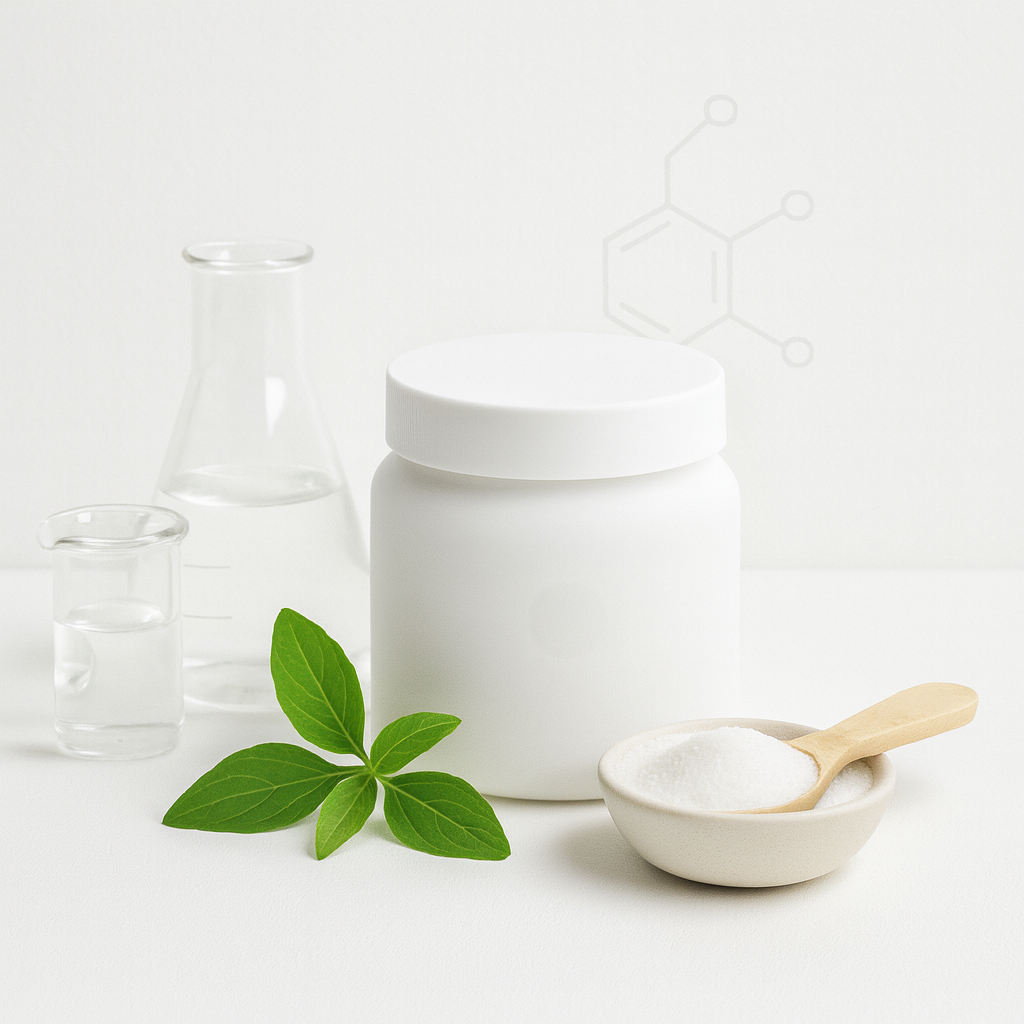
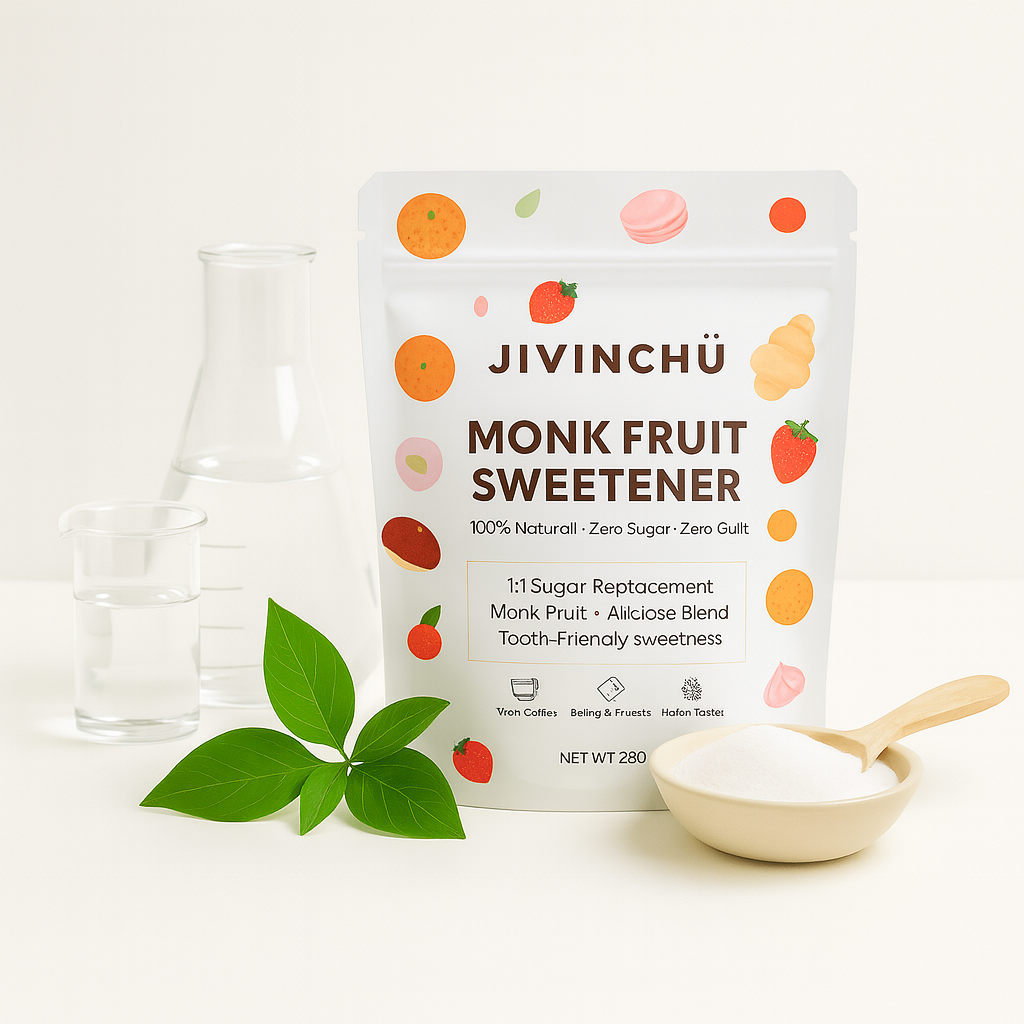
feat(UI: Storefront): Final UI for Storefront

diff --git a/web/components/Storefront.tsx b/web/components/Storefront.tsx
@@ -8,11 +8,15 @@ import { useRouter } from "next/navigation";
 import { motion, useReducedMotion } from "framer-motion";
 import type { StoreProduct } from "@/types/product";
 import styles from "./Storefront.module.css";
+//import SignOutButton from "@/components/SignOutButton";
 
-/** Local images for the alternating media section */
-import trustedImg from "@/app/assets/images/trusted.png";
+/** Local images (updated to use JIVINCHU product image) */
+
+import patternImg from "@/app/assets/images/monk_pattern.png";
+import productImg from "@/app/assets/images/monk_sweetener.jpeg";
 import scienceImg from "@/app/assets/images/scientifically_proven.png";
 import deliveryImg from "@/app/assets/images/easy_delivery.png";
+import trustImg from "@/app/assets/images/trusted.png";
 
 type SizeRow = StoreProduct["product_sizes"][number];
 
@@ -132,10 +136,10 @@ const noList: Array<{ t: string; d: string }> = [
 ];
 
 const testimonials = [
-  { quote: "SugarPro changed my coffee routine forever!", name: "Anna S.", role: "Coffee Enthusiast" },
+  { quote: "This is my new favorite monk fruit blend!", name: "Anna S.", role: "Coffee Enthusiast" },
   { quote: "No aftertaste—finally a sweetener I trust.", name: "Brian L.", role: "Dietitian" },
   { quote: "So easy to order and it arrived fast.", name: "Jillian C.", role: "Home Baker" },
-  { quote: "My new go-to for every recipe.", name: "David M.", role: "Fitness Coach" },
+  { quote: "Perfect 1:1 sugar replacement.", name: "David M.", role: "Fitness Coach" },
 ];
 
 export default function Storefront({ product }: { product: StoreProduct | null }) {
@@ -192,6 +196,7 @@ export default function Storefront({ product }: { product: StoreProduct | null }
 
   return (
     <div className={`${styles.page} ${styles.theme}`}>
+      <div aria-hidden style={{ position: 'absolute', inset: 0, backgroundImage: `url(${patternImg.src})`, backgroundRepeat: 'repeat', backgroundSize: '220px', opacity: '0.3', pointerEvents: 'none' }} />
       {/* Background blobs */}
       <div aria-hidden className={styles.bgWrap}>
         <div className={styles.blobOne} />
@@ -199,17 +204,19 @@ export default function Storefront({ product }: { product: StoreProduct | null }
       </div>
 
       {/* Header */}
-      <header className={styles.navbar}>
+      <header className={styles.navbar}  style={{background: 'linear-gradient(80deg, #FFFAFA 30%, #FFF3DD 40%, #FFE7C8 100%)'}}>
+      
         <nav className={`${styles.navbarInner} ${styles.container}`}>
-          <Link href="/" aria-label="SugarPro Home" className={styles.brand}>
-            SugarPro
+          <Link href="/" aria-label="JIVINCHU Home" className={styles.brand} style={{color:"#c89f16", fontSize:"22px"}}>
+            JIVINCHU
           </Link>
 
           <div className={styles.navLinks} aria-label="Primary">
             <button onClick={() => scrollTo("benefits")}>Benefits</button>
-            <button onClick={() => scrollTo("science")}>Science</button>
+            {/* <button onClick={() => scrollTo("science")}>Science</button> */}
             <button onClick={() => scrollTo("buy")}>Buy</button>
             <Link href="/account">Account</Link>
+            {/* <SignOutButton className={styles.linkLikeButton} /> */}
           </div>
 
           <button
@@ -236,12 +243,13 @@ export default function Storefront({ product }: { product: StoreProduct | null }
       </header>
 
       {/* HERO */}
-      <section className={`${styles.section} ${styles.container} ${styles.hero}`}>
-        <motion.div
+      <section className={`${styles.section} ${styles.container} ${styles.hero}`} style={{ position: "relative" }}>
+
+          <motion.div
           initial={prefersReduced ? undefined : { opacity: 0, y: 18, filter: "blur(6px)" }}
           animate={prefersReduced ? undefined : { opacity: 1, y: 0, filter: "blur(0px)" }}
           transition={{ duration: 0.7, ease: "easeOut" }}
-          className={styles.heroContent}
+          className={styles.heroContent} style={{ position: 'relative', zIndex: 1 }}
         >
           <motion.h1
             initial={prefersReduced ? undefined : { opacity: 0, y: 14 }}
@@ -250,7 +258,7 @@ export default function Storefront({ product }: { product: StoreProduct | null }
             className={styles.heroTitle}
             whileHover={prefersReduced ? undefined : { scale: 1.01 }}
           >
-            SugarPro<span className={styles.dot}>.</span>
+            JIVINCHU<span className={styles.dot}>.</span>
           </motion.h1>
 
           <motion.h2
@@ -259,7 +267,7 @@ export default function Storefront({ product }: { product: StoreProduct | null }
             transition={{ delay: 0.12, duration: 0.45 }}
             className={styles.heroKicker}
           >
-            Total solution for sweetness.
+            Monk Fruit Sweetener - total solution for sweetness.
           </motion.h2>
 
           <motion.p
@@ -268,7 +276,7 @@ export default function Storefront({ product }: { product: StoreProduct | null }
             transition={{ delay: 0.2, duration: 0.45 }}
             className={styles.heroLead}
           >
-            A modern way to enjoy sweet flavor—without compromising how you feel.
+            A modern way to enjoy sweet flavor - Monk Fruit + Allulose blend for sugar-like taste without the guilt.
           </motion.p>
 
           <motion.div
@@ -300,24 +308,25 @@ export default function Storefront({ product }: { product: StoreProduct | null }
               {hasVariedPrices ? <>From {formatPaise(minPricePaise)}</> : <>{formatPaise(minPricePaise)}</>}
             </div>
           </motion.div>
+
         </motion.div>
       </section>
 
       {/* ALTERNATING MEDIA SECTION (3 rows) */}
       <section className={`${styles.section} ${styles.mediaSection}`}>
         <div className={styles.container}>
-          {/* Row 1: text left, image right */}
+          {/* Row 1: text left, product image right (updated) */}
           <div className={styles.mediaRow}>
             <div className={styles.mediaText}>
               <h3 className={styles.mediaTitle}>Trusted by thousands.</h3>
               <p className={styles.mediaDesc}>
-                SugarPro offers a new way to enjoy sweet flavors without compromising health or taste.
+                JIVINCHU Monk Fruit Sweetener offers a new way to enjoy sweet flavors without compromising health or taste.
               </p>
             </div>
             <div className={styles.mediaImage}>
               <Image
-                src={trustedImg}
-                alt="Customers trust SugarPro"
+                src={trustImg}
+                alt="JIVINCHU Monk Fruit Sweetener packaging"
                 width={1200}
                 height={900}
                 className={styles.mediaImgEl}
@@ -369,7 +378,7 @@ export default function Storefront({ product }: { product: StoreProduct | null }
       {/* Benefits */}
       <section id="benefits" className={styles.section}>
         <div className={styles.container}>
-          <h2 className={styles.sectionTitle}>Sweet. Smart. SugarPro.</h2>
+          <h2 className={styles.sectionTitle}>Sweet. Smart. JIVINCHU.</h2>
           <p className={styles.sectionLead}>
             Enjoy the sugar-like taste with zero guilt and a feel-good routine.
           </p>
@@ -428,13 +437,25 @@ export default function Storefront({ product }: { product: StoreProduct | null }
           </div>
         </div>
       </section>
-
+      
       {/* BUY */}
       <section id="buy" className={styles.section}>
         <div className={styles.container}>
+          
           <div className={styles.buyGrid}>
+            {/* Product hero image */}
+  <div className={styles.mediaImage}>
+            <Image
+              src={productImg}
+              alt="JIVINCHU Monk Fruit Sweetener retail pouch"
+              width={1200}
+              height={1200}
+              className={styles.mediaImgEl}
+              priority
+            />
+          </div>
             <div>
-              <h2 className={styles.sectionTitle}>Buy SugarPro</h2>
+              <h2 className={styles.sectionTitle}>Buy JIVINCHU Monk Fruit Sweetener</h2>
               <ul className={styles.buyBullets}>
                 <li>• Zero Calories, Zero Sugar Spike</li>
                 <li>• Tastes Like Sugar — No Aftertaste</li>
@@ -444,17 +465,14 @@ export default function Storefront({ product }: { product: StoreProduct | null }
               {product?.description ? (
                 <p className={styles.buyDesc}>{product.description}</p>
               ) : (
-                <p className={styles.buyDesc}>Add a short product description here.</p>
+                <p className={styles.buyDesc}>Monk Fruit + Allulose blend. 1:1 sugar replacement for tea, coffee, baking & Indian sweets.</p>
               )}
-            </div>
-
-            {/* Purchase card */}
-            <div className={styles.buyCard}>
+              <div className={styles.buyCard}>
               <div className={styles.buyHeader}>
-                <div className={styles.buyTitle}>{product?.name ?? "Your Product"}</div>
+                <div className={styles.buyTitle}>{product?.name ?? "JIVINCHU's Monk Fruit Sweetener"}</div>
                 <div className={styles.buyPrice}>{formatPaise(unitPaise)}</div>
               </div>
-
+              
               {/* Sizes */}
               <div className={styles.formField}>
                 <label>Choose size</label>
@@ -521,10 +539,16 @@ export default function Storefront({ product }: { product: StoreProduct | null }
             </div>
           </div>
         </div>
+            </div>
+
+
+            {/* Purchase card */}
+            
       </section>
 
       {/* FOOTER — redesigned */}
-      <footer className={styles.siteFooter}>
+      <footer className={styles.siteFooter} style={{background: 'linear-gradient(40deg, #FFFAFA 0%, #FFF3DD 40%, #FFE7C8 100%)'}}>
+        
         <div className={`${styles.container} ${styles.footerWrap}`}>
           <div className={styles.footerTop}>
             <div className={styles.brandCell}>
@@ -536,7 +560,7 @@ export default function Storefront({ product }: { product: StoreProduct | null }
                   <polygon points="40,22 48,8 56,22" fill="#d4d4d8" />
                 </svg>
               </div>
-              <div className={styles.tagline}>Sweet. Smart. SugarPro.</div>
+              <div className={styles.tagline}>Sweet. Smart. JIVINCHU.</div>
             </div>
 
             <div className={styles.footerCols}>
@@ -562,7 +586,7 @@ export default function Storefront({ product }: { product: StoreProduct | null }
           <div className={styles.footerDivider} />
 
           <div className={styles.footerBottom}>
-            <div className={styles.copy}>© {new Date().getFullYear()} SugarPro</div>
+            <div className={styles.copy}>© {new Date().getFullYear()} JIVINCHU</div>
             <nav className={styles.legalNav}>
               <Link className={styles.footerLink} href="/privacy">Privacy</Link>
               <Link className={styles.footerLink} href="/returns">Returns</Link>

diff --git a/web/components/Storefront.module.css b/web/components/Storefront.module.css
@@ -8,9 +8,9 @@
   --ink-2: #334155;
   --ink-3: #64748b;
   --line: rgba(15, 23, 42, 0.12);
-  --brand-1: #7c3aed;   /* violet */
-  --brand-2: #06b6d4;   /* cyan  */
-  --brand-3: #22c55e;   /* green */
+  --brand-1: #ffb22473;   
+  --brand-2: #d4a606;   
+  --brand-3: #c89f16;   
   --radius: 16px;
   --radius-lg: 20px;
   --shadow-sm: 0 1px 2px rgba(0,0,0,0.05);
@@ -38,7 +38,7 @@
   position: sticky; top: 0;
   background: rgba(255,255,255,0.7);
   backdrop-filter: saturate(140%) blur(10px);
-  border-bottom: 1px solid var(--line);
+  border-bottom: 1.5px solid var(--line);
   z-index: 20;
 }
 .navbarInner { height: 64px; display: flex; align-items: center; justify-content: space-between; gap: 16px; }
@@ -58,7 +58,11 @@
 .hero { padding-top: 88px; padding-bottom: 40px; text-align: center; }
 .heroContent { display: grid; gap: 16px; justify-items: center; }
 
-.heroTitle { font-size: clamp(48px, 8vw, 88px); font-weight: 800; letter-spacing: -0.04em; line-height: 0.95; }
+.heroTitle { font-size: clamp(48px, 8vw, 88px); font-weight: 800; letter-spacing: -0.04em; line-height: 0.95; color: transparent;
+  background: linear-gradient(90deg, var(--brand-3)0%, var(--brand-2) 50%, var(--brand-1)100%);
+  background-size: 200% 100%;
+  -webkit-background-clip: text; background-clip: text;
+  animation: dot-pan 10s linear infinite;}
 .dot {
   color: transparent;
   background: linear-gradient(90deg, var(--brand-1), var(--brand-2) 50%, var(--brand-3));
@@ -68,7 +72,7 @@
 }
 @keyframes dot-pan { 0% { background-position: 0% 50%; } 100% { background-position: 200% 50%; } }
 
-.heroKicker { font-size: clamp(18px, 2.4vw, 28px); font-weight: 600; opacity: 0.9; }
+.heroKicker { font-size: clamp(18px, 2.4vw, 28px); font-weight: 600; opacity: 1; padding: 12px; background: linear-gradient(40deg, var(--brand-1) 30%, #FFE7C8 60%, #FFF3DD);}
 .heroLead { color: var(--ink-2); max-width: 760px; }
 .heroBadges { display: flex; gap: 8px; justify-content: center; }
 .badge { font-size: 13px; padding: 6px 10px; background: rgba(6,182,212,0.08); border: 1px solid rgba(6,182,212,0.2); border-radius: 999px; }
@@ -76,10 +80,10 @@
 .heroCtaRow { display: flex; gap: 12px; justify-content: center; align-items: center; margin-top: 8px; }
 .primaryBtn {
   border: 0; border-radius: 999px; padding: 12px 18px; font-weight: 600; cursor: pointer;
-  background: linear-gradient(90deg, var(--brand-1), var(--brand-2));
-  color: white; box-shadow: var(--shadow-md); transition: box-shadow .2s ease;
+  background: linear-gradient(90deg, var(--brand-2), var(--brand-1));
+  color: black; box-shadow: var(--shadow-md); transition: box-shadow .2s ease;
 }
-.primaryBtn:hover { box-shadow: 0 8px 30px rgba(124,58,237,0.25); }
+.primaryBtn:hover { box-shadow: 0 8px 30px rgba(209, 176, 8, 0.525); }
 .primaryBtn[aria-disabled="true"], .primaryBtn:disabled { opacity: 0.6; cursor: not-allowed; }
 .price { font-weight: 700; }
 
@@ -114,6 +118,7 @@
   overflow: hidden;
 }
 .mediaImgEl { width: 100%; height: auto; display: block; }
+
 
 @media (min-width: 960px) {
   .mediaRow { grid-template-columns: 0.9fr 1.1fr; gap: 40px; }
@@ -206,7 +211,7 @@
 }
 
 /* --------- FOOTER --------- */
-.siteFooter { padding: 48px 0 28px; border-top: 1px solid var(--line); background: #fff; }
+.siteFooter { padding: 48px 0 28px; border: 0px solid var(--line); background: #fff; }
 .footerWrap { display: grid; gap: 24px; }
 
 .footerTop {
